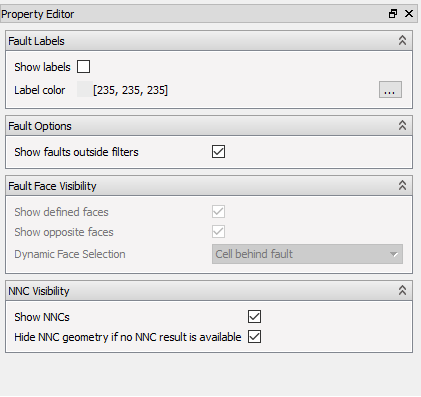
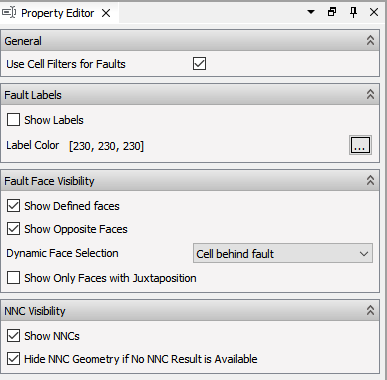
Several updates related to fault and intersection filtering

Changed region(s): [[0.0, 0.0, 1.0, 1.0]]

diff --git a/content/3d-main-window/Intersections.md b/content/3d-main-window/Intersections.md
@@ -38,6 +38,11 @@ The property panel of a well path based intersection is shown below:
  
 - **Name** -- Automatically created based on the item specifying the intersection. The user can edit the name, but it will be updated if you change well or well path.
 - **Intersecting Geometry** -- Options to control the curve used for the cross section dependant on the type of intersection.
+- **Depth Filter** -- Controls the depth/z-range for visible geometry. Can be controlled from the **Intersections** folder object.
+- **K Range Filter** -- Controls the visible K slices. Can be controlled from the **Intersections** folder object.
+
+#### Advanced options
+
 - **Direction** -- Horizontal, vertical or defined by two points.
 - **Extent Length** -- Defines how far an intersection for well path or simulation Well is extended at intersection ends.
 - **Show Inactive Cells** -- Controls if inactive cells are included when creating intersection geometry.
@@ -46,17 +51,10 @@ The property panel of a well path based intersection is shown below:
 By **Defined by two points**, the user can define the direction based on any two points. The direction from the first to the second point defines the extrude direction. 
 
 
-### Well Path Intersection
+### Well Path Intersections
 A new **Well Path** intersection can be created by right-clicking the well path in the 3D view or in the **Project Tree**. 
- 
-![]({{< relref "" >}}images/3d-main-window/IntersectionWellPath.png)
- 
-When a well path intersection is created, the source well path can be changed by using the **Well Path** selection combo box in the **Property Editor**.
 
-### Simulation Well Intersection
 A new **Simulation Well** intersection can be created by right-clicking the simulation well in the 3D view or in the **Project Tree**.
-
-![]({{< relref "" >}}images/3d-main-window/IntersectionSimulationWellProperties.png)
 
 When a simulation well intersection is created, the source simulation well can be changed by using the **Simulation Well** selection combo box in the **Property Editor**. 
 
@@ -159,7 +157,7 @@ Direct interaction in a 3D view is activated when **Show 3D manipulator** is pre
 ![]({{< relref "" >}}images/3d-main-window/IntersectionBoxWithHandles.png)
 
 
-## Depth Filter
+## Depth and Range Filter
 An intersection can be visually filtered, i.e. partly hidden from display, by employing a user defined **Depth Filter**. 
 Depth filtering is performed by selecting an intersection in **Project Tree** and setting **Depth Filter** properties in **Property Editor**:
 - **None**: no depth filtering
@@ -167,8 +165,18 @@ Depth filtering is performed by selecting an intersection in **Project Tree** an
 - **Below**: show below the specified *Depth*
 - **Between**: show between the specified *Upper Depth* and the specified *Lower Depth*
 
+An intersection can be also be visually filtered by a user defined **K Range Filter**. 
+K Range filtering is performed by enabling **K Range Filter** of an intersection. The filtering is defined using a text string, i.e. "5,10-15,20:3", see [Advanced Text Input]({{< relref "advancedtextinput" >}}) for details.
+
 ![]({{< relref "" >}}images/3d-main-window/IntersectionPropEdDepthFilter.png)
 
+## Filter Options for all Intersections
+
+![]({{< relref "" >}}images/3d-main-window/IntersectionFolderOverrides.png)
+
+The filtering of all intersections can be controlled when selecting the **Intersections** folder object. Activating these options will override the settings defined locally on each intersection.
+
+Similar options can also be activated for **Faults**.
 
 ## Intersection Results
 

diff --git a/content/3d-main-window/Faults.md b/content/3d-main-window/Faults.md
@@ -77,12 +77,12 @@ By clicking the {{< image-in-text src="images/3d-main-window/draw_style_faults_2
 
  ![]({{< relref "" >}}images/3d-main-window/FaultProperties.png)
  
+##### Fault Options
+- **Use Cell filters for Faults** -- When checked, use the currently active cell filters to filter the visible faults. 
+
 ##### Fault Labels
 - **Show labels** -- Displays one label per fault with the name defined in the _`*.DATA`_ file
 - **Label color** -- Defines the label color
- 
-##### Fault Options
-- **Show faults outside filters** -- Turning this option on, will display faults outside the filter region, making the fault visualization completely ignore the Range and Property filters in action.
 
 ##### Fault Face Visibility
 This group of options controls the visibility of the fault faces. Since they work together, and in some cases are overridden by the system, they can be a bit confusing. 

diff --git a/content/misc/AdvancedTextInput.md b/content/misc/AdvancedTextInput.md
@@ -1,0 +1,19 @@
++++
+title = "Advanced Text Input"
+published = true
+weight = 30
++++
+
+When the user is requested to specify a list of integer values, it can be useful to input the list using a text string. This can be a selection of K slices, a selection of realisations or a selection of integer values in a integer cell result.
+
+## Supported text format
+```txt
+5,10-13,20-26:2
+```
+
+This text will produce an integer array with values
+```txt
+[5, 10, 11, 12, 13, 20, 22, 24, 26]
+```
+
+Using the syntax **"20-26:2"** will produce integer values in the range at a step of 2, resulting in **[20, 22, 24, 26]**

diff --git a/content/getting-started/whats-new/releasenotes_2023_06.md b/content/getting-started/whats-new/releasenotes_2023_06.md
@@ -26,6 +26,14 @@ ResInsight supports the following seismic file formats:
 
 
 ## Cell Filters for Faults and Intersections
+![]({{< relref "" >}}images/release-notes/CellFilteredIntersection.png)
+
+Intersections and faults can now be visually filtered by using cell filters, and can be useful if faults and intersections obscure other interesting parts of the model. The filtering using cell filters is by default activated.
+
+[Intersection Filters]({{< relref "intersections" >}}#depth-and-range-filter)
+
+[Fault Filters]({{< relref "faults" >}}#faults-properties)
+
 
 ## Regression and Decline curves
 
